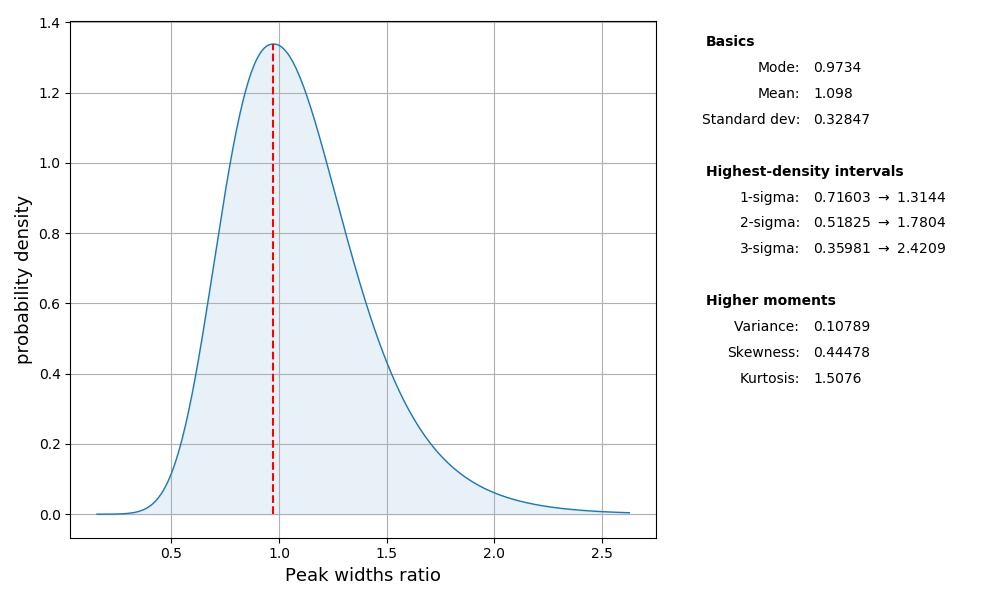
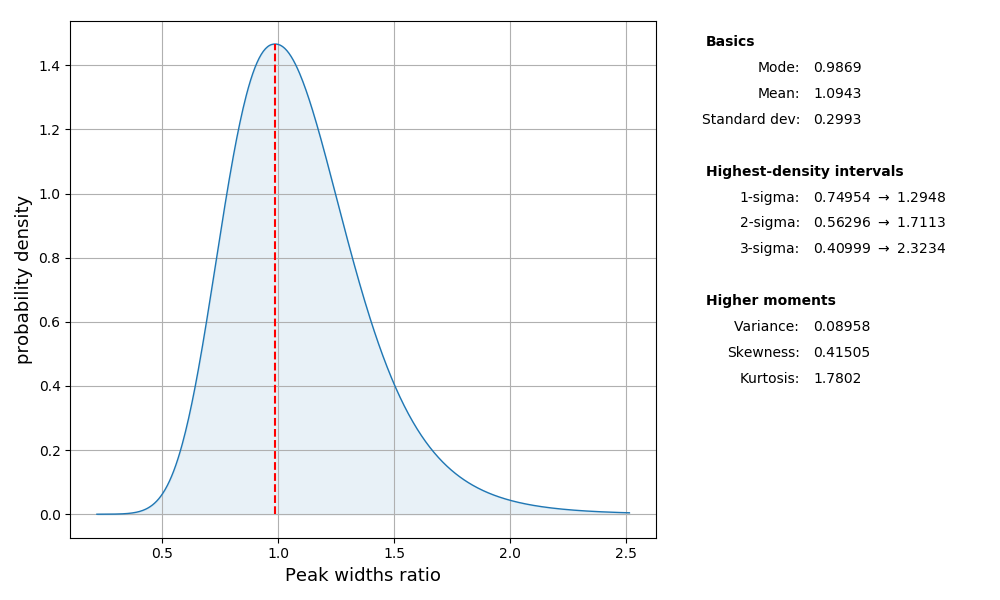
Improvements to the spectroscopy example in the getting started docs section

diff --git a/docs/source/images/getting_started_images/getting_started_image_production.py b/docs/source/images/getting_started_images/getting_started_image_production.py
@@ -28,18 +28,16 @@ class SpectroPosterior(object):
         return 0.
 
     def likelihood(self, theta):
-        return -0.5*sum( ((self.y - self.forward_model(self.x, theta)) / self.sigma)**2 )
+        return -0.5*( ((self.y - self.forward_model(self.x, theta)) / self.sigma)**2 ).sum()
 
     def forward_model(self, x, theta):
         # unpack the model parameters
-        A1, w1, A2, w2, b0, b1 = theta
+        A1, w1, A2, w2, bg = theta
         # evaluate each term of the model
         peak_1 = (A1 / (pi*w1)) / (1 + ((x - self.c1)/w1)**2)
         peak_2 = (A2 / (pi*w2)) / (1 + ((x - self.c2)/w2)**2)
-        d = (b1-b0)/(max(x) - min(x))
-        background = d*x + (b0 - d*min(x))
         # return the prediction of the data
-        return peak_1 + peak_2 + background
+        return peak_1 + peak_2 + bg
 
 
 
@@ -48,7 +46,7 @@ seed(9)
 N = 35
 x_data = linspace(410, 440, N)
 P = SpectroPosterior(x_data, None, None)
-theta = [1000, 2, 400, 1.5, 35, 25]
+theta = [1000, 2, 400, 1.5, 35]
 y_data = P.forward_model(x_data, theta)
 errors = sqrt(y_data + 1) + 5
 y_data += normal(size = N) * errors
@@ -72,7 +70,7 @@ print(' # spectroscopy data plot finished')
 posterior = SpectroPosterior(x_data, y_data, errors)
 
 # create the markov chain object
-chain = PcaChain( posterior = posterior, start = [1000, 1, 1000, 1, 30, 30] )
+chain = PcaChain( posterior = posterior, start = [1000, 1, 1000, 1, 20] )
 
 # generate a sample by advancing the chain
 chain.advance(50000)
@@ -87,7 +85,8 @@ chain.autoselect_burn_and_thin()
 # functionality of chain objects, which plots all possible 1D & 2D
 # marginal distributions of the full parameter set (or a chosen sub-set).
 chain.thin = 1
-chain.matrix_plot(show = False, filename = 'matrix_plot_example.png')
+labels = ['peak 1 area', 'peak 1 width', 'peak 2 area', 'peak 2 width', 'background']
+chain.matrix_plot(show = False, labels = labels, filename = 'matrix_plot_example.png')
 print(' # matrix plot finished')
 # We can easily estimate 1D marginal distributions for any parameter
 # using the get_marginal method:
@@ -143,8 +142,8 @@ curves = array([posterior.forward_model(x_fits, theta) for theta in sample])
 # we can use the sample_hdi function from the pdf_tools module to produce highest-density
 # intervals for each point where the model is evaluated:
 from inference.pdf_tools import sample_hdi
-hdi_1sigma = array([sample_hdi(curves[:,i], 0.68, force_single = True) for i in range(curves.shape[1])])
-hdi_2sigma = array([sample_hdi(curves[:,i], 0.95, force_single = True) for i in range(curves.shape[1])])
+hdi_1sigma = array([sample_hdi(c, 0.68, force_single=True) for c in curves.T])
+hdi_2sigma = array([sample_hdi(c, 0.95, force_single=True) for c in curves.T])
 
 # construct the plot
 plt.figure(figsize = (8,5))

diff --git a/docs/source/getting_started.rst b/docs/source/getting_started.rst
@@ -21,7 +21,7 @@ Example - spectroscopy data fitting
 -----------------------------------
 
 Here we work through a toy problem of fitting the following synthetic spectroscopy data, which contains two
-peaks with known centres and a linear background:
+peaks with known centres and a constant background:
 
 .. image:: ./images/getting_started_images/spectroscopy_data.png
 
@@ -43,18 +43,16 @@ First let's define a class to evaluate the log-posterior:
          return self.likelihood(theta) # omitting prior term here means our prior is uniform
 
       def likelihood(self, theta): # Gaussian likelihood
-         return -0.5*sum( ((self.y - self.forward_model(self.x, theta)) / self.sigma)**2 )
+         return -0.5*( ((self.y - self.forward_model(self.x, theta)) / self.sigma)**2 ).sum()
 
       def forward_model(self, x, theta):
          # unpack the model parameters
-         A1, w1, A2, w2, b0, b1 = theta
-         # evaluate each term of the model
-         peak_1 = (A1 / (pi*w1)) / (1 + ((x - self.c1)/w1)**2)
-         peak_2 = (A2 / (pi*w2)) / (1 + ((x - self.c2)/w2)**2)
-         d = (b1-b0)/(max(x) - min(x))
-         background = d*x + (b0 - d*min(x))
+         A1, w1, A2, w2, bg = theta
+         # evaluate the peaks
+         peak_1 = A1 / ((pi*w1)*(1. + ((x - self.c1)/w1)**2))
+         peak_2 = A2 / ((pi*w2)*(1. + ((x - self.c2)/w2)**2))
          # return the prediction of the data
-         return peak_1 + peak_2 + background
+         return peak_1 + peak_2 + bg
 
 Create an instance of the posterior class, and import one of the Markov-chain Monte-Carlo samplers from
 ``inference.mcmc``:
@@ -69,7 +67,7 @@ log-posterior function and a starting location for the chain:
 
 .. code-block:: python
 
-   chain = PcaChain(posterior = posterior, start = [1000, 1, 1000, 1, 30, 30])
+   chain = PcaChain(posterior = posterior, start = [1000, 1, 1000, 1, 20])
 
 The chain can be advanced for a given number of steps using the ``advance`` method:
 
@@ -94,8 +92,8 @@ so we cannot visualise it directly. Instead, we can produce a 'matrix plot' of t
 shows all possible 1D and 2D marginal distributions, using the ``matrix_plot`` method:
 
 .. code-block:: python
-
-   chain.matrix_plot()
+   labels = ['peak 1 area', 'peak 1 width', 'peak 2 area', 'peak 2 width', 'background']
+   chain.matrix_plot( labels = labels )
 
 .. image:: ./images/getting_started_images/matrix_plot_example.png
 
@@ -112,7 +110,7 @@ These objects can be called as functions to return an estimate of the pdf that b
 .. code-block:: python
 
    ax = linspace(0.2, 4., 1000) # build an axis to evaluate the pdf estimates
-   plt.plot(ax, w1_pdf(ax), label = 'peak #1 width marginal', lw = 2) # plot estimates of each marginal
+   plt.plot(ax, w1_pdf(ax), label = 'peak #1 width marginal', lw = 2) # plot the marginals
    plt.plot(ax, w2_pdf(ax), label = 'peak #2 width marginal', lw = 2)
    plt.xlabel('peak width')
    plt.ylabel('probability density')
@@ -164,11 +162,11 @@ We can use ``inference.pdf_tools.sample_hdi`` to derive highest-density interval
    # we can use the sample_hdi function from the pdf_tools module to produce highest-density
    # intervals for each point where the model is evaluated:
    from inference.pdf_tools import sample_hdi
-   hdi_1sigma = array([sample_hdi(curves[:,i], 0.68, force_single = True) for i in range(curves.shape[1])])
-   hdi_2sigma = array([sample_hdi(curves[:,i], 0.95, force_single = True) for i in range(curves.shape[1])])
+   hdi_1sigma = array([sample_hdi(c, 0.68, force_single = True) for c in curves.T])
+   hdi_2sigma = array([sample_hdi(c, 0.95, force_single = True) for c in curves.T])
 
    # construct the plot
-   plt.figure(figsize = (8, 5))
+   plt.figure(figsize = (8,5))
    # plot the 1 and 2-sigma highest-density intervals
    plt.fill_between(x_fits, hdi_2sigma[:,0], hdi_2sigma[:,1], color = 'red', alpha = 0.1, label = '2-sigma HDI')
    plt.fill_between(x_fits, hdi_1sigma[:,0], hdi_1sigma[:,1], color = 'red', alpha = 0.2, label = '1-sigma HDI')
